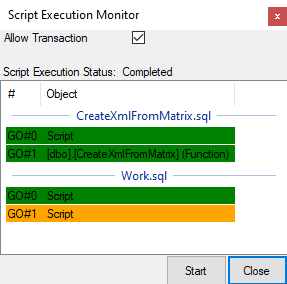
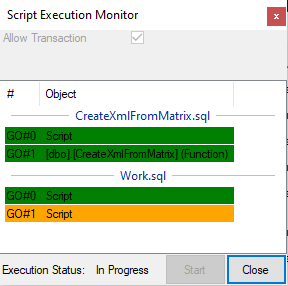
#12 Move execution status to footer of execution monitor - label moved to footer of the form - bug fixed: status "Completed" set before it actually has completed - UsersGuide updated - version 1.0.1-alpha02 set

diff --git a/SqlScriptRunner/SqlScriptRunner/Forms/ScriptExecutionMonitorForm.Designer.cs b/SqlScriptRunner/SqlScriptRunner/Forms/ScriptExecutionMonitorForm.Designer.cs
@@ -29,6 +29,9 @@
         private void InitializeComponent()
         {
             this.panelHeader = new System.Windows.Forms.Panel();
+            this.panelOptions = new System.Windows.Forms.Panel();
+            this.checkBoxAllowTransaction = new System.Windows.Forms.CheckBox();
+            this.panelStatus = new System.Windows.Forms.Panel();
             this.labelStatusText = new System.Windows.Forms.Label();
             this.labelHeader = new System.Windows.Forms.Label();
             this.panelFooter = new System.Windows.Forms.Panel();
@@ -37,31 +40,61 @@
             this.listViewExecution = new System.Windows.Forms.ListView();
             this.columnHeader1 = ((System.Windows.Forms.ColumnHeader)(new System.Windows.Forms.ColumnHeader()));
             this.columnHeader2 = ((System.Windows.Forms.ColumnHeader)(new System.Windows.Forms.ColumnHeader()));
-            this.panelOptions = new System.Windows.Forms.Panel();
-            this.panelStatus = new System.Windows.Forms.Panel();
-            this.checkBoxAllowTransaction = new System.Windows.Forms.CheckBox();
             this.panelHeader.SuspendLayout();
-            this.panelFooter.SuspendLayout();
             this.panelOptions.SuspendLayout();
             this.panelStatus.SuspendLayout();
+            this.panelFooter.SuspendLayout();
             this.SuspendLayout();
             // 
             // panelHeader
             // 
             this.panelHeader.Controls.Add(this.panelOptions);
-            this.panelHeader.Controls.Add(this.panelStatus);
             this.panelHeader.Dock = System.Windows.Forms.DockStyle.Top;
             this.panelHeader.Location = new System.Drawing.Point(0, 0);
             this.panelHeader.Name = "panelHeader";
             this.panelHeader.Size = new System.Drawing.Size(288, 50);
             this.panelHeader.TabIndex = 1;
             // 
+            // panelOptions
+            // 
+            this.panelOptions.Controls.Add(this.checkBoxAllowTransaction);
+            this.panelOptions.Dock = System.Windows.Forms.DockStyle.Fill;
+            this.panelOptions.Location = new System.Drawing.Point(0, 0);
+            this.panelOptions.Name = "panelOptions";
+            this.panelOptions.Size = new System.Drawing.Size(288, 50);
+            this.panelOptions.TabIndex = 2;
+            // 
+            // checkBoxAllowTransaction
+            // 
+            this.checkBoxAllowTransaction.CheckAlign = System.Drawing.ContentAlignment.MiddleCenter;
+            this.checkBoxAllowTransaction.Checked = true;
+            this.checkBoxAllowTransaction.CheckState = System.Windows.Forms.CheckState.Checked;
+            this.checkBoxAllowTransaction.Dock = System.Windows.Forms.DockStyle.Top;
+            this.checkBoxAllowTransaction.Location = new System.Drawing.Point(0, 0);
+            this.checkBoxAllowTransaction.Name = "checkBoxAllowTransaction";
+            this.checkBoxAllowTransaction.Padding = new System.Windows.Forms.Padding(0, 0, 10, 0);
+            this.checkBoxAllowTransaction.Size = new System.Drawing.Size(288, 16);
+            this.checkBoxAllowTransaction.TabIndex = 0;
+            this.checkBoxAllowTransaction.Text = "Allow Transaction";
+            this.checkBoxAllowTransaction.UseVisualStyleBackColor = true;
+            this.checkBoxAllowTransaction.CheckedChanged += new System.EventHandler(this.checkBoxAllowTransaction_CheckedChanged);
+            // 
+            // panelStatus
+            // 
+            this.panelStatus.Controls.Add(this.labelStatusText);
+            this.panelStatus.Controls.Add(this.labelHeader);
+            this.panelStatus.Dock = System.Windows.Forms.DockStyle.Fill;
+            this.panelStatus.Location = new System.Drawing.Point(0, 0);
+            this.panelStatus.Name = "panelStatus";
+            this.panelStatus.Size = new System.Drawing.Size(166, 31);
+            this.panelStatus.TabIndex = 3;
+            // 
             // labelStatusText
             // 
             this.labelStatusText.Dock = System.Windows.Forms.DockStyle.Fill;
-            this.labelStatusText.Location = new System.Drawing.Point(120, 0);
+            this.labelStatusText.Location = new System.Drawing.Point(94, 0);
             this.labelStatusText.Name = "labelStatusText";
-            this.labelStatusText.Size = new System.Drawing.Size(168, 18);
+            this.labelStatusText.Size = new System.Drawing.Size(72, 31);
             this.labelStatusText.TabIndex = 1;
             this.labelStatusText.Text = "Not Started";
             this.labelStatusText.TextAlign = System.Drawing.ContentAlignment.MiddleLeft;
@@ -71,13 +104,14 @@
             this.labelHeader.Dock = System.Windows.Forms.DockStyle.Left;
             this.labelHeader.Location = new System.Drawing.Point(0, 0);
             this.labelHeader.Name = "labelHeader";
-            this.labelHeader.Size = new System.Drawing.Size(120, 18);
+            this.labelHeader.Size = new System.Drawing.Size(94, 31);
             this.labelHeader.TabIndex = 0;
-            this.labelHeader.Text = "Script Execution Status:";
+            this.labelHeader.Text = "Execution Status:";
             this.labelHeader.TextAlign = System.Drawing.ContentAlignment.MiddleLeft;
             // 
             // panelFooter
             // 
+            this.panelFooter.Controls.Add(this.panelStatus);
             this.panelFooter.Controls.Add(this.buttonStart);
             this.panelFooter.Controls.Add(this.buttonCancel);
             this.panelFooter.Dock = System.Windows.Forms.DockStyle.Bottom;
@@ -135,40 +169,6 @@
             // 
             this.columnHeader2.Text = "Object";
             // 
-            // panelOptions
-            // 
-            this.panelOptions.Controls.Add(this.checkBoxAllowTransaction);
-            this.panelOptions.Dock = System.Windows.Forms.DockStyle.Fill;
-            this.panelOptions.Location = new System.Drawing.Point(0, 0);
-            this.panelOptions.Name = "panelOptions";
-            this.panelOptions.Size = new System.Drawing.Size(288, 32);
-            this.panelOptions.TabIndex = 2;
-            // 
-            // panelStatus
-            // 
-            this.panelStatus.Controls.Add(this.labelStatusText);
-            this.panelStatus.Controls.Add(this.labelHeader);
-            this.panelStatus.Dock = System.Windows.Forms.DockStyle.Bottom;
-            this.panelStatus.Location = new System.Drawing.Point(0, 32);
-            this.panelStatus.Name = "panelStatus";
-            this.panelStatus.Size = new System.Drawing.Size(288, 18);
-            this.panelStatus.TabIndex = 3;
-            // 
-            // checkBoxAllowTransaction
-            // 
-            this.checkBoxAllowTransaction.CheckAlign = System.Drawing.ContentAlignment.MiddleCenter;
-            this.checkBoxAllowTransaction.Checked = true;
-            this.checkBoxAllowTransaction.CheckState = System.Windows.Forms.CheckState.Checked;
-            this.checkBoxAllowTransaction.Dock = System.Windows.Forms.DockStyle.Top;
-            this.checkBoxAllowTransaction.Location = new System.Drawing.Point(0, 0);
-            this.checkBoxAllowTransaction.Name = "checkBoxAllowTransaction";
-            this.checkBoxAllowTransaction.Padding = new System.Windows.Forms.Padding(0, 0, 10, 0);
-            this.checkBoxAllowTransaction.Size = new System.Drawing.Size(288, 16);
-            this.checkBoxAllowTransaction.TabIndex = 0;
-            this.checkBoxAllowTransaction.Text = "Allow Transaction";
-            this.checkBoxAllowTransaction.UseVisualStyleBackColor = true;
-            this.checkBoxAllowTransaction.CheckedChanged += new System.EventHandler(this.checkBoxAllowTransaction_CheckedChanged);
-            // 
             // ScriptExecutionMonitorForm
             // 
             this.AcceptButton = this.buttonStart;
@@ -187,9 +187,9 @@
             this.Text = "Script Execution Monitor";
             this.Load += new System.EventHandler(this.ScriptExecutionMonitorForm_Load);
             this.panelHeader.ResumeLayout(false);
-            this.panelFooter.ResumeLayout(false);
             this.panelOptions.ResumeLayout(false);
             this.panelStatus.ResumeLayout(false);
+            this.panelFooter.ResumeLayout(false);
             this.ResumeLayout(false);
 
         }

diff --git a/SqlScriptRunner/SqlScriptRunner/Forms/ScriptExecutionMonitorForm.cs b/SqlScriptRunner/SqlScriptRunner/Forms/ScriptExecutionMonitorForm.cs
@@ -31,7 +31,6 @@ namespace SqlScriptRunner.Forms
             ScriptLoader = scriptLoader;
             ScriptList = scriptLoader.SortedFileList().ToList();
         }
-
         public void StatusUpdate(ScriptSection scriptSection)
         {
             if (this.InvokeRequired)
@@ -76,7 +75,7 @@ namespace SqlScriptRunner.Forms
                     item.EnsureVisible();
                 }
                 // if all script has a status than it is completed
-                if (ScriptLoader.ScriptFileList.Any(s => !s.ScriptSections.Any(ss => ss.Status == null || ss.Status == ExecutionStatusEnum.Running)))
+                if (ScriptLoader.IsCompleted)
                 {
                     buttonStart.Enabled = true;
                     checkBoxAllowTransaction.Enabled = true;

diff --git a/SqlScriptRunner/SqlScriptRunner/ScriptHandler/ScriptLoader.cs b/SqlScriptRunner/SqlScriptRunner/ScriptHandler/ScriptLoader.cs
@@ -28,6 +28,7 @@ namespace SqlScriptRunner.ScriptHandler
         public Task LoadingTask { get; set; }
         public List<Script> ScriptFileList => scriptFileList;
         public bool WithTransaction { get; set; }
+        public bool IsCompleted => !scriptSections?.Any(ss => ss.Status == null || ss.Status == ExecutionStatusEnum.Running) ?? true;
 
         private Action<string, LogLevelEnum?> LogAction;
         internal delegate void StatusCallBackDelegate(ScriptSection script);

diff --git a/SqlScriptRunner/SqlScriptRunner/Properties/AssemblyInfo.cs b/SqlScriptRunner/SqlScriptRunner/Properties/AssemblyInfo.cs
@@ -34,4 +34,4 @@ using System.Runtime.InteropServices;
 // [assembly: AssemblyVersion("1.0.*")]
 [assembly: AssemblyVersion("1.0.1.0")]
 [assembly: AssemblyFileVersion("1.0.1.0")]
-[assembly: AssemblyInformationalVersion("1.0.1-alpha01")]
+[assembly: AssemblyInformationalVersion("1.0.1-alpha02")]

diff --git a/SqlScriptRunner/UsersGuide/UsersGuide.md b/SqlScriptRunner/UsersGuide/UsersGuide.md
@@ -12,6 +12,7 @@ Project page on Github: [github.com/altncsab](https://github.com/altncsab/altncs
 
 Date|Version|Description
 -|-|-
+2024.01.25|1.0.1-alpha02|Moving the execution status text to footer on Execution monitor.
 2024.01.24|1.0.1-alpha01|Allow switch on / off transactions during script applying
 2024.01.18|1.0.0.0|Adding Users guide
 2024.01.16|1.0.0.0|Initial release
@@ -178,7 +179,7 @@ If a database is configured this button become active. By pressing it a new sub 
 
 ![Script Execution Monitor](./Pictures/ScriptExecutionMonitor.png)
 
-In the top part showing up some settings and the Script Execution status. In the list view control we see all selected files as groups and "GO" sections inside. The order of the group is matching the file execution order. The column with hash (#) indicating the GO count inside the file. The Object column is the object name with the creation and the object type classification or if there is no clear script type than it is classifying the scrip section as "Script". Script classification is where certain object creation is happening. It is like Function, Procedure, Type, Table, View.
+In the top part showing up some settings. In the list view control we see all selected files as groups and "GO" sections inside. The order of the group is matching the file execution order. The column with hash (#) indicating the GO count inside the file. The Object column is the object name with the creation and the object type classification or if there is no clear script type than it is classifying the scrip section as "Script". Script classification is where certain object creation is happening. It is like Function, Procedure, Type, Table, View.
 
 ### Checkbox "Allow Transaction"
 
@@ -193,6 +194,8 @@ It is staring the Script execution sequence. The tool applying the scripts to th
 Ongoing Execution:
 
 ![Ongoing Execution](./Pictures/ExecutingSequenceOnMonitor.png)
+
+ The Script Execution status showing as "In Progress" while the execution is on going. No settings change allowed. Start button is disabled. Press the [Close](#button-close) button to cancel the ongoing execution.
 
 Passed Execution Log:
 
